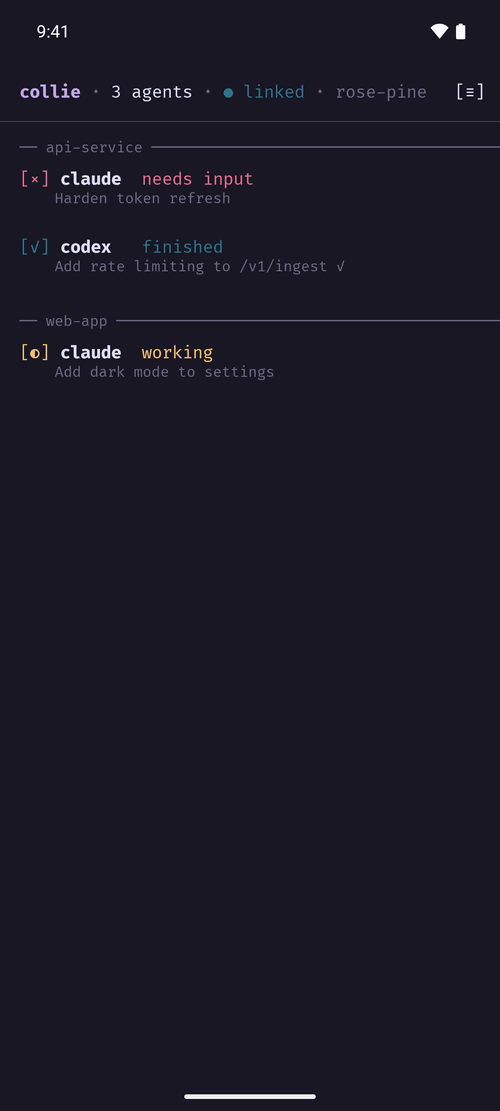
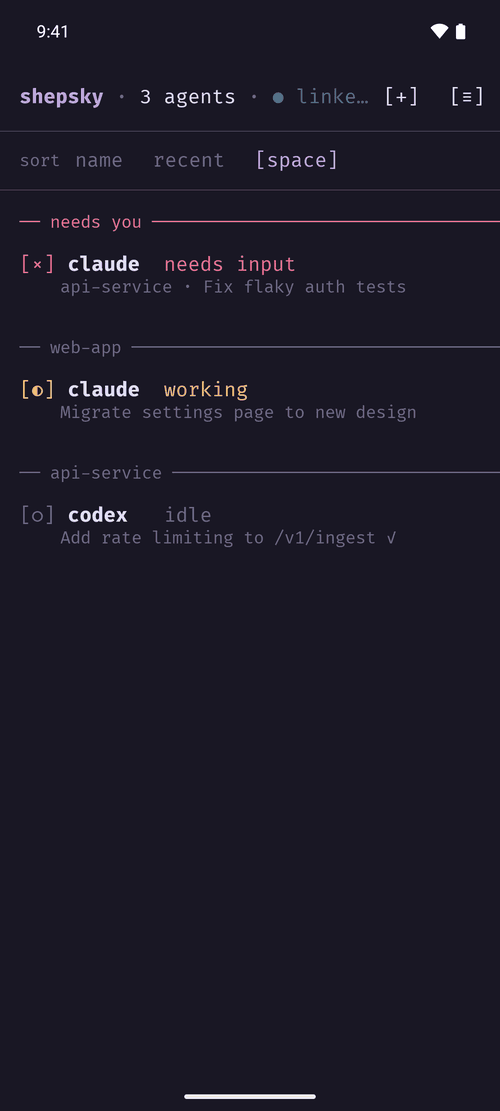
README and screenshots: catch up with the app
New screenshots, all from the demo session on an emulator in SystemUI demo
mode (9:41, full battery, no notification icons), with the new icon: the
overview (sort line, 'needs you' pinned), a conversation, an agent waiting
on a question, the terminal scrolled back, notifications, settings with
the theme picker, the new-agent screen, the long-press popup, the three
themes, and a new core-loop GIF (notification -> tap -> answer 1 -> back
to work). Each is palette-compressed (48 colors; the GIF 6 fps).

README: every feature now (chat, sort, start/rename/close, scrollback and
its shared Mac scroll, themes), a 'Using it' section, release builds
throughout, the full allowlist and what the token can do, agent-panes-only
checks, the collie token carry-over, known gaps (live-only notifications,
codex conversation matching, rename before an integration reports, pi under
a session supervisor), shepsky-client and assets/logo in the layout, Dracula
in the credits. Commands were run where safe (install into a scratch
prefix, status and smoke against the demo, pair with the token hidden).

PROTOCOL.md: workspaces[] fields, bad_scroll, chat as a side stream, and
the proto 2 note moved where it belongs. try-it.sh's closing tips match.
Fake agents now say their warnings instead of running them as commands.

diff --git a/README.md b/README.md
@@ -1,4 +1,4 @@
-<p align="center"><img src="docs/images/icon.png" width="124" alt="shepsky: a pixel-art black shepsky with its tongue out"></p>
+<p align="center"><img src="docs/images/icon.png" width="124" alt="shepsky: a pixel-art black shepsky with green eyes and its tongue out"></p>
 
 <h1 align="center">shepsky</h1>
 
@@ -8,33 +8,36 @@ Half shepherd, half husky: a shepsky keeps an eye on the herd and runs the news 
 </p>
 
 <p align="center">
-  <img src="docs/images/demo.gif" width="250" alt="An agent asks a question; the phone gets a notification, opens the agent, answers 1, and the agent goes back to work.">
-  <img src="docs/images/overview.png" width="250" alt="The overview: agents grouped by workspace, each with a herdr-style status tag.">
-  <img src="docs/images/agent.png" width="250" alt="An agent asking for permission: its latest output, and quick replies lit up.">
+  <img src="docs/images/demo.gif" width="250" alt="An agent asks for permission; the phone gets a notification, opens the agent, answers 1, and the agent goes back to work.">
+  <img src="docs/images/overview.png" width="250" alt="The overview: the agent that needs you pinned on top, the rest by workspace, with a sort line.">
+  <img src="docs/images/chat.png" width="250" alt="An agent's conversation: the prompt, its replies, and tool calls with their results.">
 </p>
 
 Your agents run in herdr on your Mac. shepsky puts them in your pocket:
 
-- **See every agent at a glance** — which are working, which finished, which
-  are stuck waiting on you.
+- **See every agent at a glance.** Which are working, which finished, which
+  are stuck waiting on you. Agents that need you are pinned on top; the rest
+  sort by workspace, name or most recent.
 - **Get notified** the moment an agent needs input or finishes, even with the
   app closed (and after a reboot).
-- **Unblock with one tap** — a notification opens the agent with its latest
-  output on screen, so you read the question before answering 1/2/3/Enter/Esc.
-- **Read the conversation, not just the screen** — prompts, replies, tool
-  calls and their results, from each agent's own transcript (Claude Code,
-  Codex, pi), with the whole history a scroll away. The live terminal is one
-  tab over.
-- **Send new prompts** and **watch the live terminal**, in your herdr theme.
-- **Start a new agent** (claude, codex or pi) in a new workspace or a new tab
-  of an existing one, right from the phone; long-press one to rename or
-  close it.
-- **Private by design** — your Mac talks to your phone directly (ideally over
+- **Unblock with one tap.** A notification opens the agent with its question
+  on screen, exactly as the agent drew it, so you read it before answering
+  1/2/3/Enter/Esc.
+- **Read the conversation, not just the screen.** Prompts, replies, tool calls
+  and their results, from each agent's own transcript (Claude Code, Codex,
+  pi), with the whole history a scroll away.
+- **Watch the live terminal** one tab over, and scroll back through its
+  history.
+- **Send prompts**, and **start, rename or close agents**: claude, codex or pi,
+  in a new workspace or a new tab of one you have.
+- **In your herdr theme**, or any of herdr's 18.
+- **Private by design.** Your Mac talks to your phone directly (ideally over
   your tailnet). No cloud, no account, no third server.
 
 <p align="center">
+  <img src="docs/images/agent.png" width="250" alt="An agent waiting on a permission question: its screen at the bottom of the chat, and the quick-reply keys lit up.">
+  <img src="docs/images/terminal.png" width="250" alt="The terminal tab scrolled back through herdr's history, with a scrollback bar and a [live] button.">
   <img src="docs/images/notifications.png" width="250" alt="Needs-input notifications in the Android shade.">
-  <img src="docs/images/terminal.png" width="250" alt="The live terminal mirror with a key bar.">
 </p>
 
 ```
@@ -56,7 +59,10 @@ sandboxed herdr session, separate from your real one, that spend no tokens.
 The app opens with pairing filled in; tap **Connect**. Then:
 
 - tap an agent that **needs input** and answer it with **1 / 2 / 3**;
-- send an idle agent a prompt and watch it work in the terminal;
+- send an idle agent a prompt and watch its conversation;
+- pull past the top of the **terminal** tab to scroll back through its log;
+- tap **[+]** to start another (fake) agent, or long-press one to rename or
+  close it;
 - leave the app: notifications arrive when an agent needs you.
 
 `scripts/try-it.sh down` stops the demo and the emulator. The script installs
@@ -66,7 +72,9 @@ downloads a few GB (SDK, emulator image, Gradle); later runs take seconds.
 
 ## Requirements
 
-- **Mac**: herdr ≥ 0.9.5, Rust (stable), Node.js (for the demo only).
+- **Mac**: herdr ≥ 0.9.5 (with its Claude Code, Codex and pi integrations
+  installed: `herdr integration status`), Rust (stable), Node.js (for the
+  demo only).
 - **Building the app** (`try-it.sh` sets up everything but the JDK):
   - a JDK 17–21: `brew install --cask temurin@21`
   - the Android SDK with `platform-tools`, `platforms;android-35`,
@@ -88,8 +96,9 @@ cargo install --path crates/shepsky-bridge   # puts shepsky-bridge on your PATH
 shepsky-bridge serve
 ```
 
-(or straight from the repo: `cargo run --release -p shepsky-bridge -- serve`). It binds `127.0.0.1:7717` and prints what it's doing. `shepsky-bridge status
---watch` gives you the same live view in the terminal, no phone needed.
+(or straight from the repo: `cargo run --release -p shepsky-bridge -- serve`).
+It binds `127.0.0.1:7717` and logs what it's doing. `shepsky-bridge status
+--watch` shows the same agents in the terminal, no phone needed.
 
 **2. Expose it to your phone** (pick one):
 
@@ -97,7 +106,7 @@ shepsky-bridge serve
 |---|---|---|
 | Android emulator on the Mac | `ws://10.0.2.2:7717/ws` | nothing |
 | On your tailnet (recommended) | `wss://<mac>.<tailnet>.ts.net:7443/ws` | `tailscale serve --bg --https=7443 http://127.0.0.1:7717` |
-| Same Wi-Fi | `ws://<mac-LAN-IP>:7717/ws` | `shepsky-bridge serve --bind 0.0.0.0:7717` — token is the only gate, prefer Tailscale |
+| Same Wi-Fi | `ws://<mac-LAN-IP>:7717/ws` | `shepsky-bridge serve --bind 0.0.0.0:7717`: the token is the only gate, so prefer Tailscale |
 
 Never expose the port publicly (`tailscale funnel`, port-forwards). Port 7443
 keeps the bridge tailnet-only even if you already serve other things: Funnel
@@ -116,13 +125,34 @@ installs over a debug build in place; publishing it anywhere would need a real
 signing key. `installDebug` still works for development.
 
 **4. Pair.** Run `shepsky-bridge pair` on the Mac, type the URL + token into
-the app, hit Connect. Done — the overview fills in, and notifications arrive
+the app, hit Connect. Done: the overview fills in, and notifications arrive
 from your agents.
 
-<img src="docs/images/pair.png" width="220" alt="The pairing screen.">
+<p align="center">
+  <img src="docs/images/pair.png" width="250" alt="Settings: the pairing form and the theme picker.">
+  <img src="docs/images/new-agent.png" width="250" alt="Starting an agent: claude, codex or pi; a new workspace in a directory, or a new tab in one you have; an optional name.">
+  <img src="docs/images/actions.png" width="250" alt="Long-press an agent: rename or close.">
+</p>
 
 Opening `shepsky://pair?url=<url-encoded URL>&token=<token>` on the phone fills
 in the pairing screen for you (it never connects until you tap Connect).
+
+## Using it
+
+- **The overview** pins agents that need you on top. The sort line orders the
+  rest by workspace (`space`, the default), `name`, or `recent` (the last
+  state change herdr saw). Long-press an agent to rename or close it; **[+]**
+  starts a new one.
+- **An agent** opens on its **chat**: the conversation from the agent's own
+  transcript, with tool calls folded to one line (tap for the full input and
+  output) and thinking folded too. While it waits on you, its question sits at
+  the bottom, exactly as it drew it, and the number keys light up. A finished
+  or idle agent takes a prompt from the line at the bottom.
+- **The terminal tab** mirrors the agent's pane. Pull past its top to scroll
+  back through herdr's history and past its bottom to come forward; **[live]**
+  jumps back. That scroll is herdr's own, so the pane on your Mac scrolls with
+  it; the app puts it back at the bottom when you leave the tab or the agent,
+  or the app goes to the background.
 
 ## Themes
 
@@ -149,8 +179,10 @@ scripts/demo-session.sh down
 - The demo runs its own herdr session (`shepsky-demo`) and its own bridge on
   port 7718, so your real session and a real bridge on 7717 are untouched.
 - The fake agents (`scripts/fake-agent.mjs`) report their state to herdr like
-  a real integration. They work through a task, sometimes stop to ask
-  permission (answer with 1/2/3/Enter/Esc), and take new prompts when idle.
+  a real integration. They work through a task, stop to ask permission
+  (answer with 1/2/3/Enter/Esc), take new prompts when idle, start with an
+  earlier log to scroll back through, and keep a Claude-style transcript for
+  the chat view.
 - Agents you start from the app in the demo are fake ones too (the bridge's
   `--demo-agent`).
 - The demo bridge runs with `--demo`. herdr only delivers agent input to a
@@ -158,21 +190,24 @@ scripts/demo-session.sh down
   bridge types into the demo panes directly instead. It still refuses prompts
   while an agent is asking a question, like herdr does. Never use `--demo` on
   your real session.
-- If an emulator with the app is running, `up` fills in its pairing screen.
-  Otherwise pair with `ws://10.0.2.2:7718/ws` and the token it prints.
+- If an emulator with the app is running, `up` fills in its pairing screen
+  (`ANDROID_SERIAL` picks one when several run). Otherwise pair with
+  `ws://10.0.2.2:7718/ws` and the token it prints.
 
 ## Repo layout
 
 | path | what |
 |---|---|
-| `crates/shepsky-core` | shared Rust: herdr types, session store, notification dedup, protocol, ANSI→styled frames |
+| `crates/shepsky-core` | shared Rust: herdr types, session store, notification dedup, protocol, ANSI→styled frames, agent transcripts → chat |
 | `crates/shepsky-bridge` | Mac daemon: herdr socket sync + phone WebSocket server (`serve`, `status`, `pair`) |
+| `crates/shepsky-client` | the phone's connection runtime (WebSocket, auth, reconnects) |
 | `crates/shepsky-android` | Rust cdylib behind a 3-function JNI surface |
 | `android/` | Kotlin + Jetpack Compose app |
 | `scripts/` | `try-it.sh` (emulator + app + demo), `demo-session.sh` + `demo.mjs` + `fake-agent.mjs` (the demo), `smoke.mjs` (fake phone) |
 | `docs/PROTOCOL.md` | bridge ↔ phone protocol |
 | `docs/herdr-notes.md` | verified herdr socket facts and sharp edges |
 | `docs/images/` | README screenshots and the icon |
+| `assets/logo/` | the logo's pixel grid and the script that exports every icon |
 | `third_party/` | licenses for bundled assets (Fira Code) |
 
 ## Security model
@@ -181,33 +216,37 @@ scripts/demo-session.sh down
   from anyone who can open it, so the bridge binds loopback only, requires a
   bearer token (`~/.config/shepsky/token`, created on first run, 0600) as the
   first message of every connection, and only ever calls an explicit
-  allowlist of herdr methods: reads plus `agent.prompt`, `agent.send_keys`,
-  `agent.focus`, `pane.send_keys` and `pane.send_text`, and for starting
-  agents `workspace.create`, `tab.create`, `agent.start` (plus
-  `workspace.close`/`tab.close`, only to undo a start that failed), and
-  `agent.rename`, `pane.rename` and `pane.close` to rename and close agents,
-  and `pane.scroll` for the terminal's scrollback (agent panes only).
+  allowlist of herdr methods (`ALLOWED_METHODS` in
+  `crates/shepsky-bridge/src/herdr_client.rs`): reads, plus
+  - input: `agent.prompt`, `agent.send_keys`, `agent.focus` (and
+    `pane.send_keys`/`pane.send_text`, used only by `--demo`);
+  - starting agents: `workspace.create`, `tab.create`, `agent.start` (plus
+    `workspace.close`/`tab.close`, only to undo a start that failed);
+  - managing agents: `agent.rename`, `pane.rename`, `pane.close`;
+  - scrollback: `pane.scroll`.
+- **Anyone with your token can drive your agents.** That's the point, but it
+  means: send prompts and keys, start agents, rename and close them, and
+  scroll their panes. Guard the token like an SSH key.
 - **shepsky can't type into a shell.** Prompts go through herdr's
   `agent.prompt` and keys through `agent.send_keys`. herdr only delivers them
   when the pane's foreground process really is that agent, and refuses a
   prompt while the agent is waiting on a question. If the agent has exited
   and left a shell behind, nothing is typed; the app says so. The pane-level
   methods are used only by `--demo`, for the sandboxed demo session.
+- **Agent panes only.** Prompts, keys, focus, rename, close and scroll are
+  refused for any pane that doesn't host an agent. Closing asks herdr once
+  more right before, so a pane whose agent just exited is never closed, and
+  the app asks you first.
+- **Starting agents is fenced in.** The phone can start only claude, codex
+  or pi, with no command-line arguments (so no flags that skip their
+  permission prompts), and only in an existing directory inside your home
+  folder. The bridge checks all of this; the app only asks.
 - **Conversations come from the agents' own logs.** The chat view reads the
   transcript herdr's integration points to, and only inside that agent's
   folder (`~/.claude/projects`, `~/.codex/sessions`, `~/.pi/agent/sessions`);
   the phone asks for a pane, never a file. Transcripts hold more than the
   screen (full tool output, the agent's thinking when it shares it), so the
   token guards that too.
-- **Closing ends an agent.** Long-press an agent to rename or close it.
-  Closing is only allowed on panes that host an agent (herdr confirms it
-  right before), never a plain shell, and the app asks first. Anyone holding
-  your token can end your agents, as well as start them.
-- **Starting agents is fenced in.** The phone can start only claude, codex
-  or pi, with no command-line arguments (so no flags that skip their
-  permission prompts), and only in an existing directory inside your home
-  folder. The bridge checks all of this; the app only asks. Anyone holding
-  your token can start agents, so guard it like an SSH key.
 - **Remote access rides your tailnet.** Tailscale authenticates the devices
   and encrypts the transport, and `tailscale serve` adds real TLS. Never use
   `tailscale funnel` or a port-forward.
@@ -216,21 +255,30 @@ scripts/demo-session.sh down
   it over networks you don't trust. A pairing link only fills in the form:
   check the URL before you tap Connect.
 
+shepsky was called collie before 0.1: the bridge copies an old
+`~/.config/collie/token` to `~/.config/shepsky/token` on first run.
+
 ## Status
 
-0.1. Known gaps: the terminal tab mirrors the screen but isn't a full
-terminal. Pulling past its top scrolls herdr's pane back through its history,
-and that scroll is herdr's own, so the Mac's view scrolls too (the app puts
-it back when you leave). The chat view
-covers Claude Code, Codex and pi; other agents get the terminal. Codex
-doesn't tell herdr which conversation a pane is in, so the bridge works it
-out from the directory, the thread name and what's on screen; a codex that
-hasn't started a conversation yet shows the terminal. One bridge per herdr session; per-agent mutes and QR pairing
-aren't built yet. Notifications are live only: if an agent finishes or starts asking
-while your phone is offline, the overview catches up when it reconnects, but
-you won't get a notification for it. Opening a *finished* agent marks it seen, which also switches herdr
-on your Mac to that agent's tab. The protocol may change before 1.0
-(`PROTO_VERSION` guards it).
+0.1. Known gaps:
+
+- **Notifications are live only.** If an agent finishes or starts asking
+  while your phone is offline, the overview catches up when it reconnects,
+  but there's no notification for what you missed.
+- **The terminal tab isn't a full terminal.** It mirrors the pane, and its
+  scrollback moves herdr's own view, so your Mac scrolls with it while you
+  read.
+- **Chat covers Claude Code, Codex and pi**; other agents get the terminal.
+  Codex doesn't tell herdr which conversation a pane is in, so the bridge
+  works it out from the directory, the thread name and what's on screen; a
+  codex that hasn't started a conversation yet shows the terminal.
+- **Renaming a just-started agent** waits until its herdr integration
+  reports in. A pi run under a session supervisor
+  may never report, and closing its pane can leave that pi process running.
+- **Opening a *finished* agent** marks it seen, which also switches herdr on
+  your Mac to that agent's tab.
+- One bridge per herdr session; per-agent mutes and QR pairing aren't built
+  yet. The protocol may change before 1.0 (`PROTO_VERSION` guards it).
 
 ## Credits
 
@@ -239,6 +287,8 @@ on your Mac to that agent's tab. The protocol may change before 1.0
 - Terminal palettes from
   [iTerm2-Color-Schemes](https://github.com/mbadolato/iTerm2-Color-Schemes)
   (MIT) and the themes' own authors; accents from herdr.
+- The logo's green and cream are [Dracula](https://draculatheme.com)'s
+  (MIT).
 
 ## License
 

diff --git a/docs/PROTOCOL.md b/docs/PROTOCOL.md
@@ -10,8 +10,9 @@ protocol break: bump `PROTO_VERSION` in both places.
 
 - The bridge pushes the **full `state`** on every change (it's a few KB).
   No deltas: reconnect = `auth`, then the next `state` replaces everything.
-- `notify` and `terminal_frame` are side streams; missing one is harmless
-  (frames are full screens, notifications re-derive from transitions).
+- `notify`, `terminal_frame` and `chat` are side streams; missing one is
+  harmless (frames are full screens, notifications re-derive from
+  transitions, a chat watch re-sent after a reconnect starts with a `reset`).
 - Writes are fire-and-ack: client attaches an optional `op_id`, bridge answers
   `ack` or `error` with the same `op_id`.
 
@@ -58,6 +59,9 @@ protocol break: bump `PROTO_VERSION` in both places.
 (`rose-pine`, `catppuccin-latte`…); `dark`/`light` are set when herdr's
 `auto_switch` is on. Re-read on every connection.
 
+`workspaces[]`: `{workspace_id, label?, number?, status?, focused}` (`number`
+is herdr's, for telling apart workspaces that share a label).
+
 `places[]` are directories worth offering for a new workspace: where your
 workspaces and agents are, most-used first, home as `~`.
 
@@ -74,6 +78,11 @@ Terminal spans: `{t, fg?, bg?, b?, i?, u?, r?}`. A color is either a
 absent means the theme's default fg/bg. `r` is reverse video: the phone swaps
 fg and bg after resolving them. Flags absent = false. Lines are pre-trimmed
 of unstyled trailing blanks.
+
+Proto 2 (theme-aware colors and `r`) replaced proto 1's fixed xterm hex for
+ANSI 0–15 and pre-swapped reverse video. Everything since (chat, starting,
+renaming, closing, scrolling, `state_change_seq`, `places`, frame `scroll`)
+was added without breaking proto 2: older apps ignore what they don't know.
 
 ## Chat
 
@@ -148,14 +157,12 @@ If the agent doesn't start, the workspace/tab made for it is closed again.
 With `serve --demo --demo-agent <cmd>`, the bridge types `<cmd> --kind <kind>`
 into the new pane instead (the demo's fake agents).
 
-Proto 2 (theme-aware colors and `r`) replaced proto 1's fixed xterm hex for
-ANSI 0–15 and pre-swapped reverse video.
-
 ## Error codes
 
-Bridge: `unauthorized`, `bad_message`, `not_found`, `too_many_watches`,
-`too_large`, `bad_keys`, and for `start_agent`: `unsupported_kind`,
-`bad_directory`, `invalid_agent_name` (also for `rename_agent`).
+Bridge: `unauthorized`, `bad_message`, `not_found` (no such pane, or no
+agent in it), `too_many_watches`, `too_large`, `bad_keys`, `bad_scroll`, and
+for `start_agent`: `unsupported_kind`, `bad_directory`, `invalid_agent_name`
+(also for `rename_agent`).
 
 herdr's own codes pass through on failed writes, notably `agent_blocked`
 (prompt refused while the agent waits on a question), `agent_not_ready` (the
